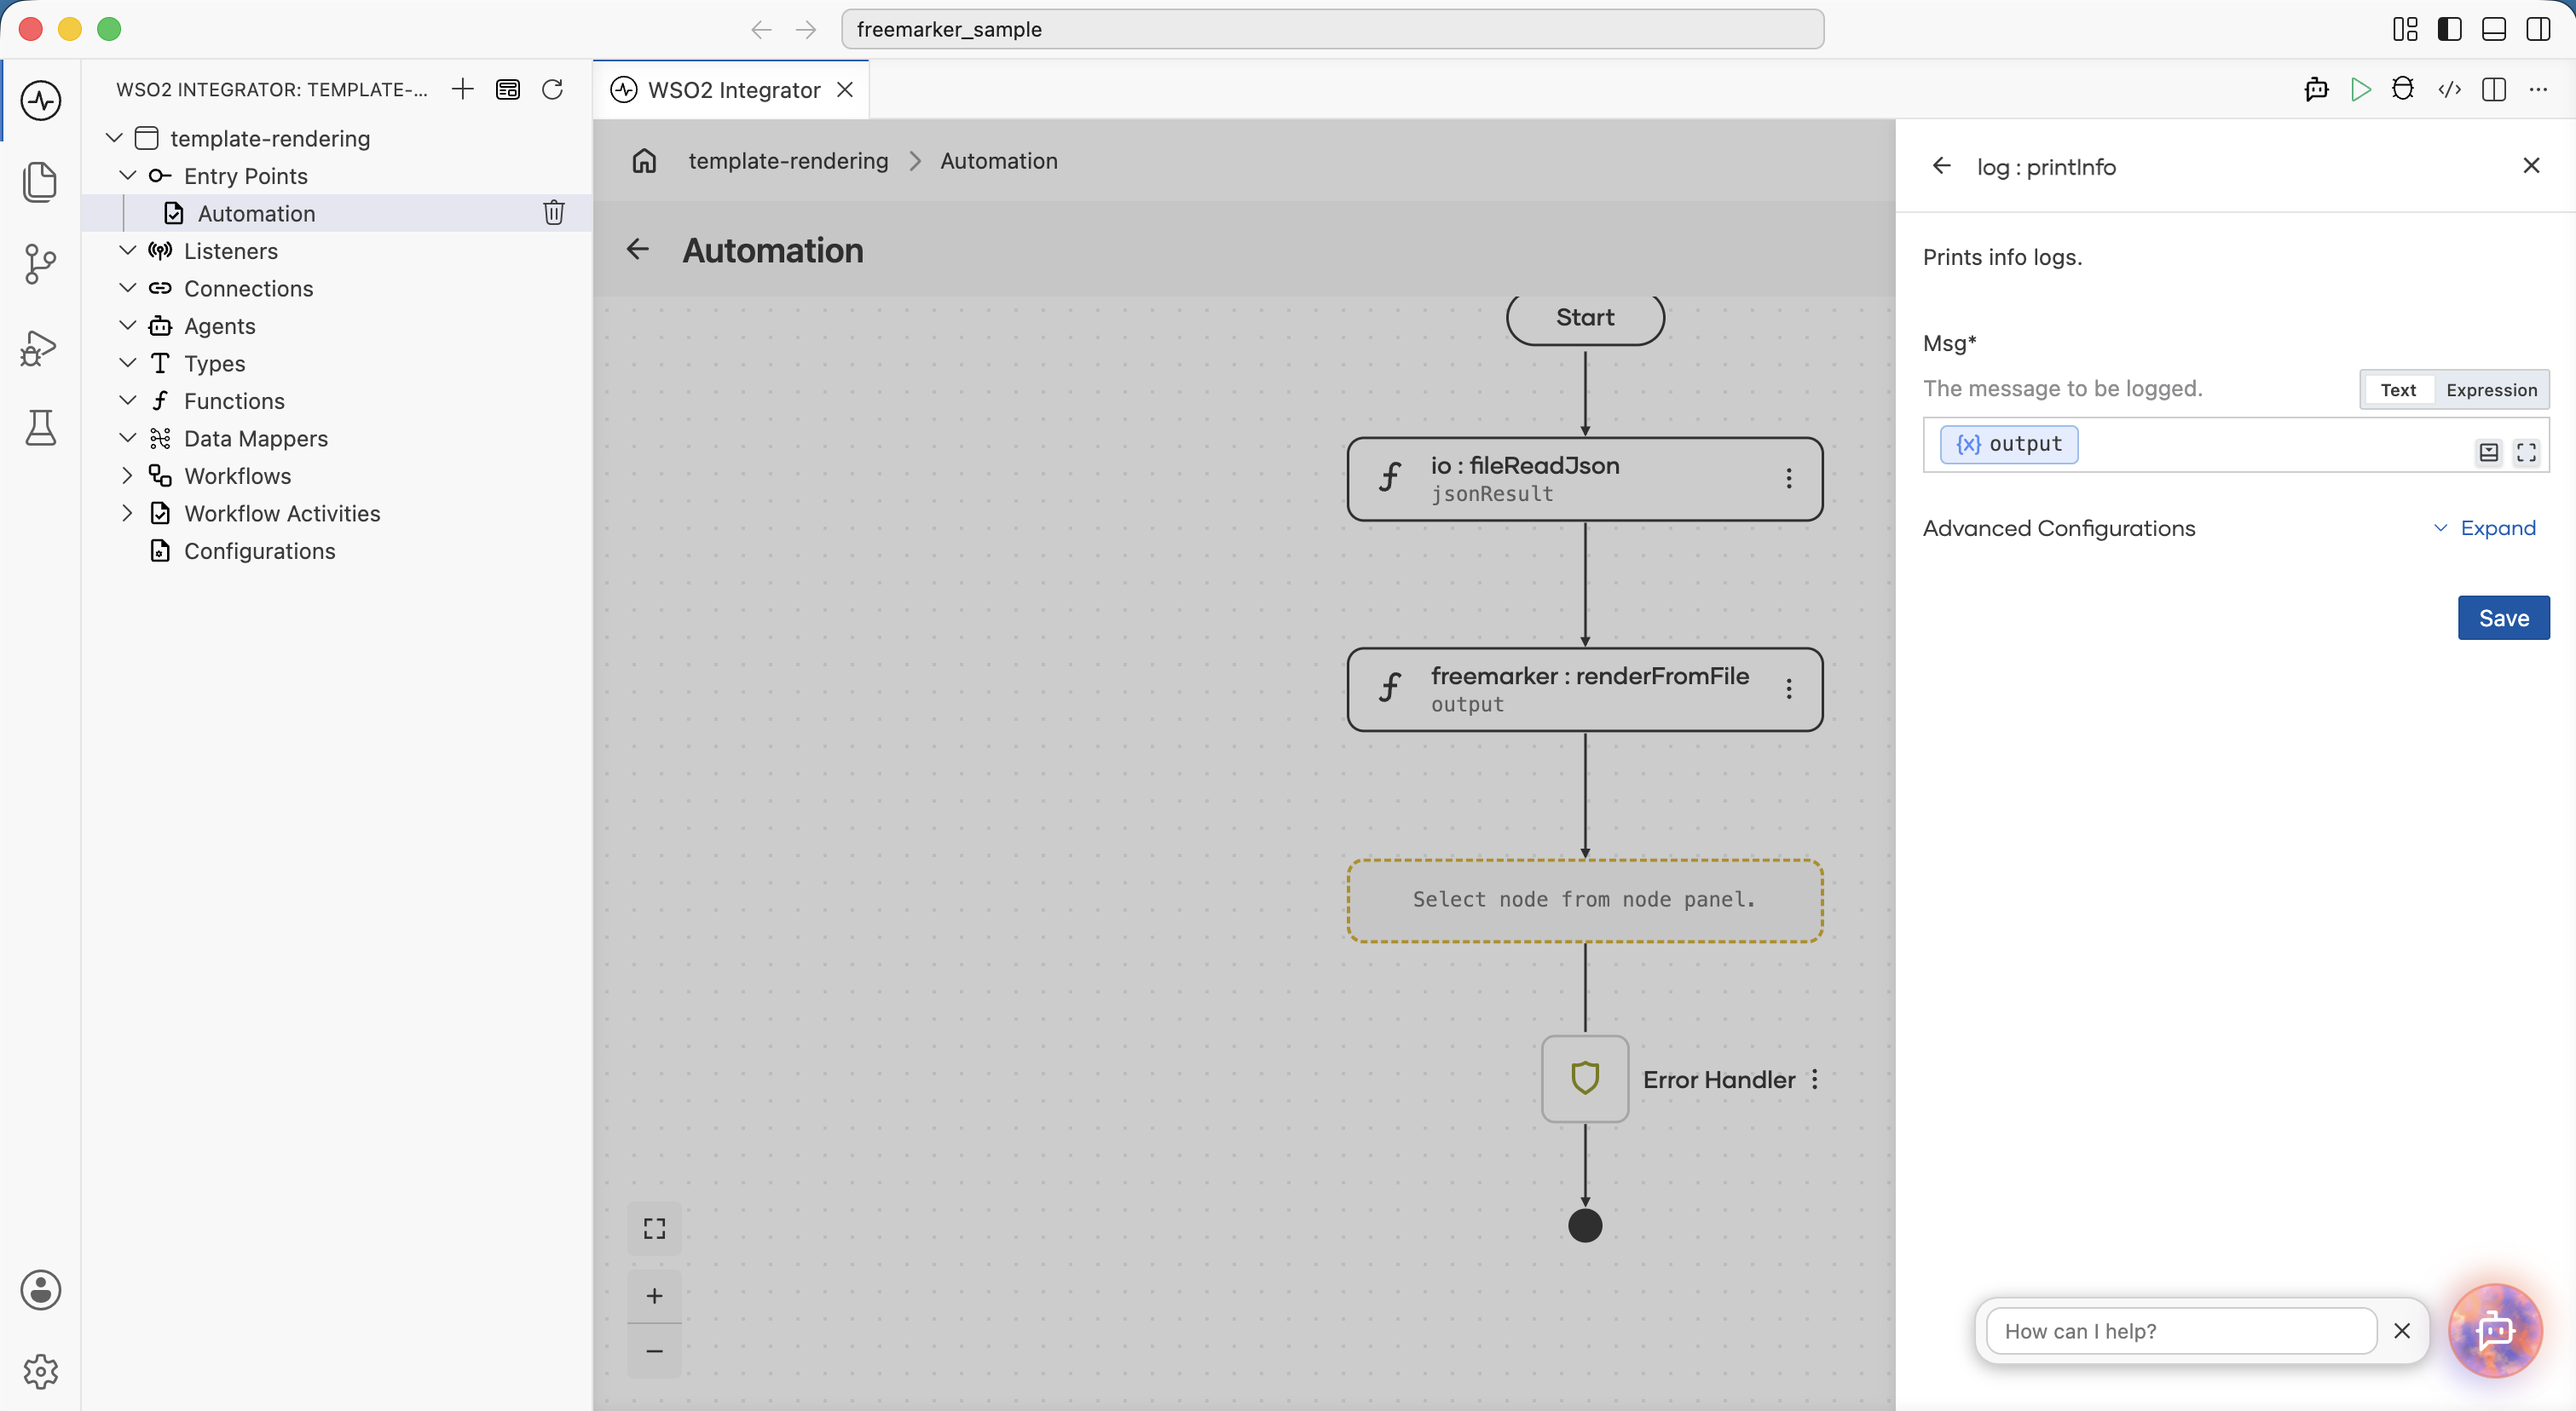
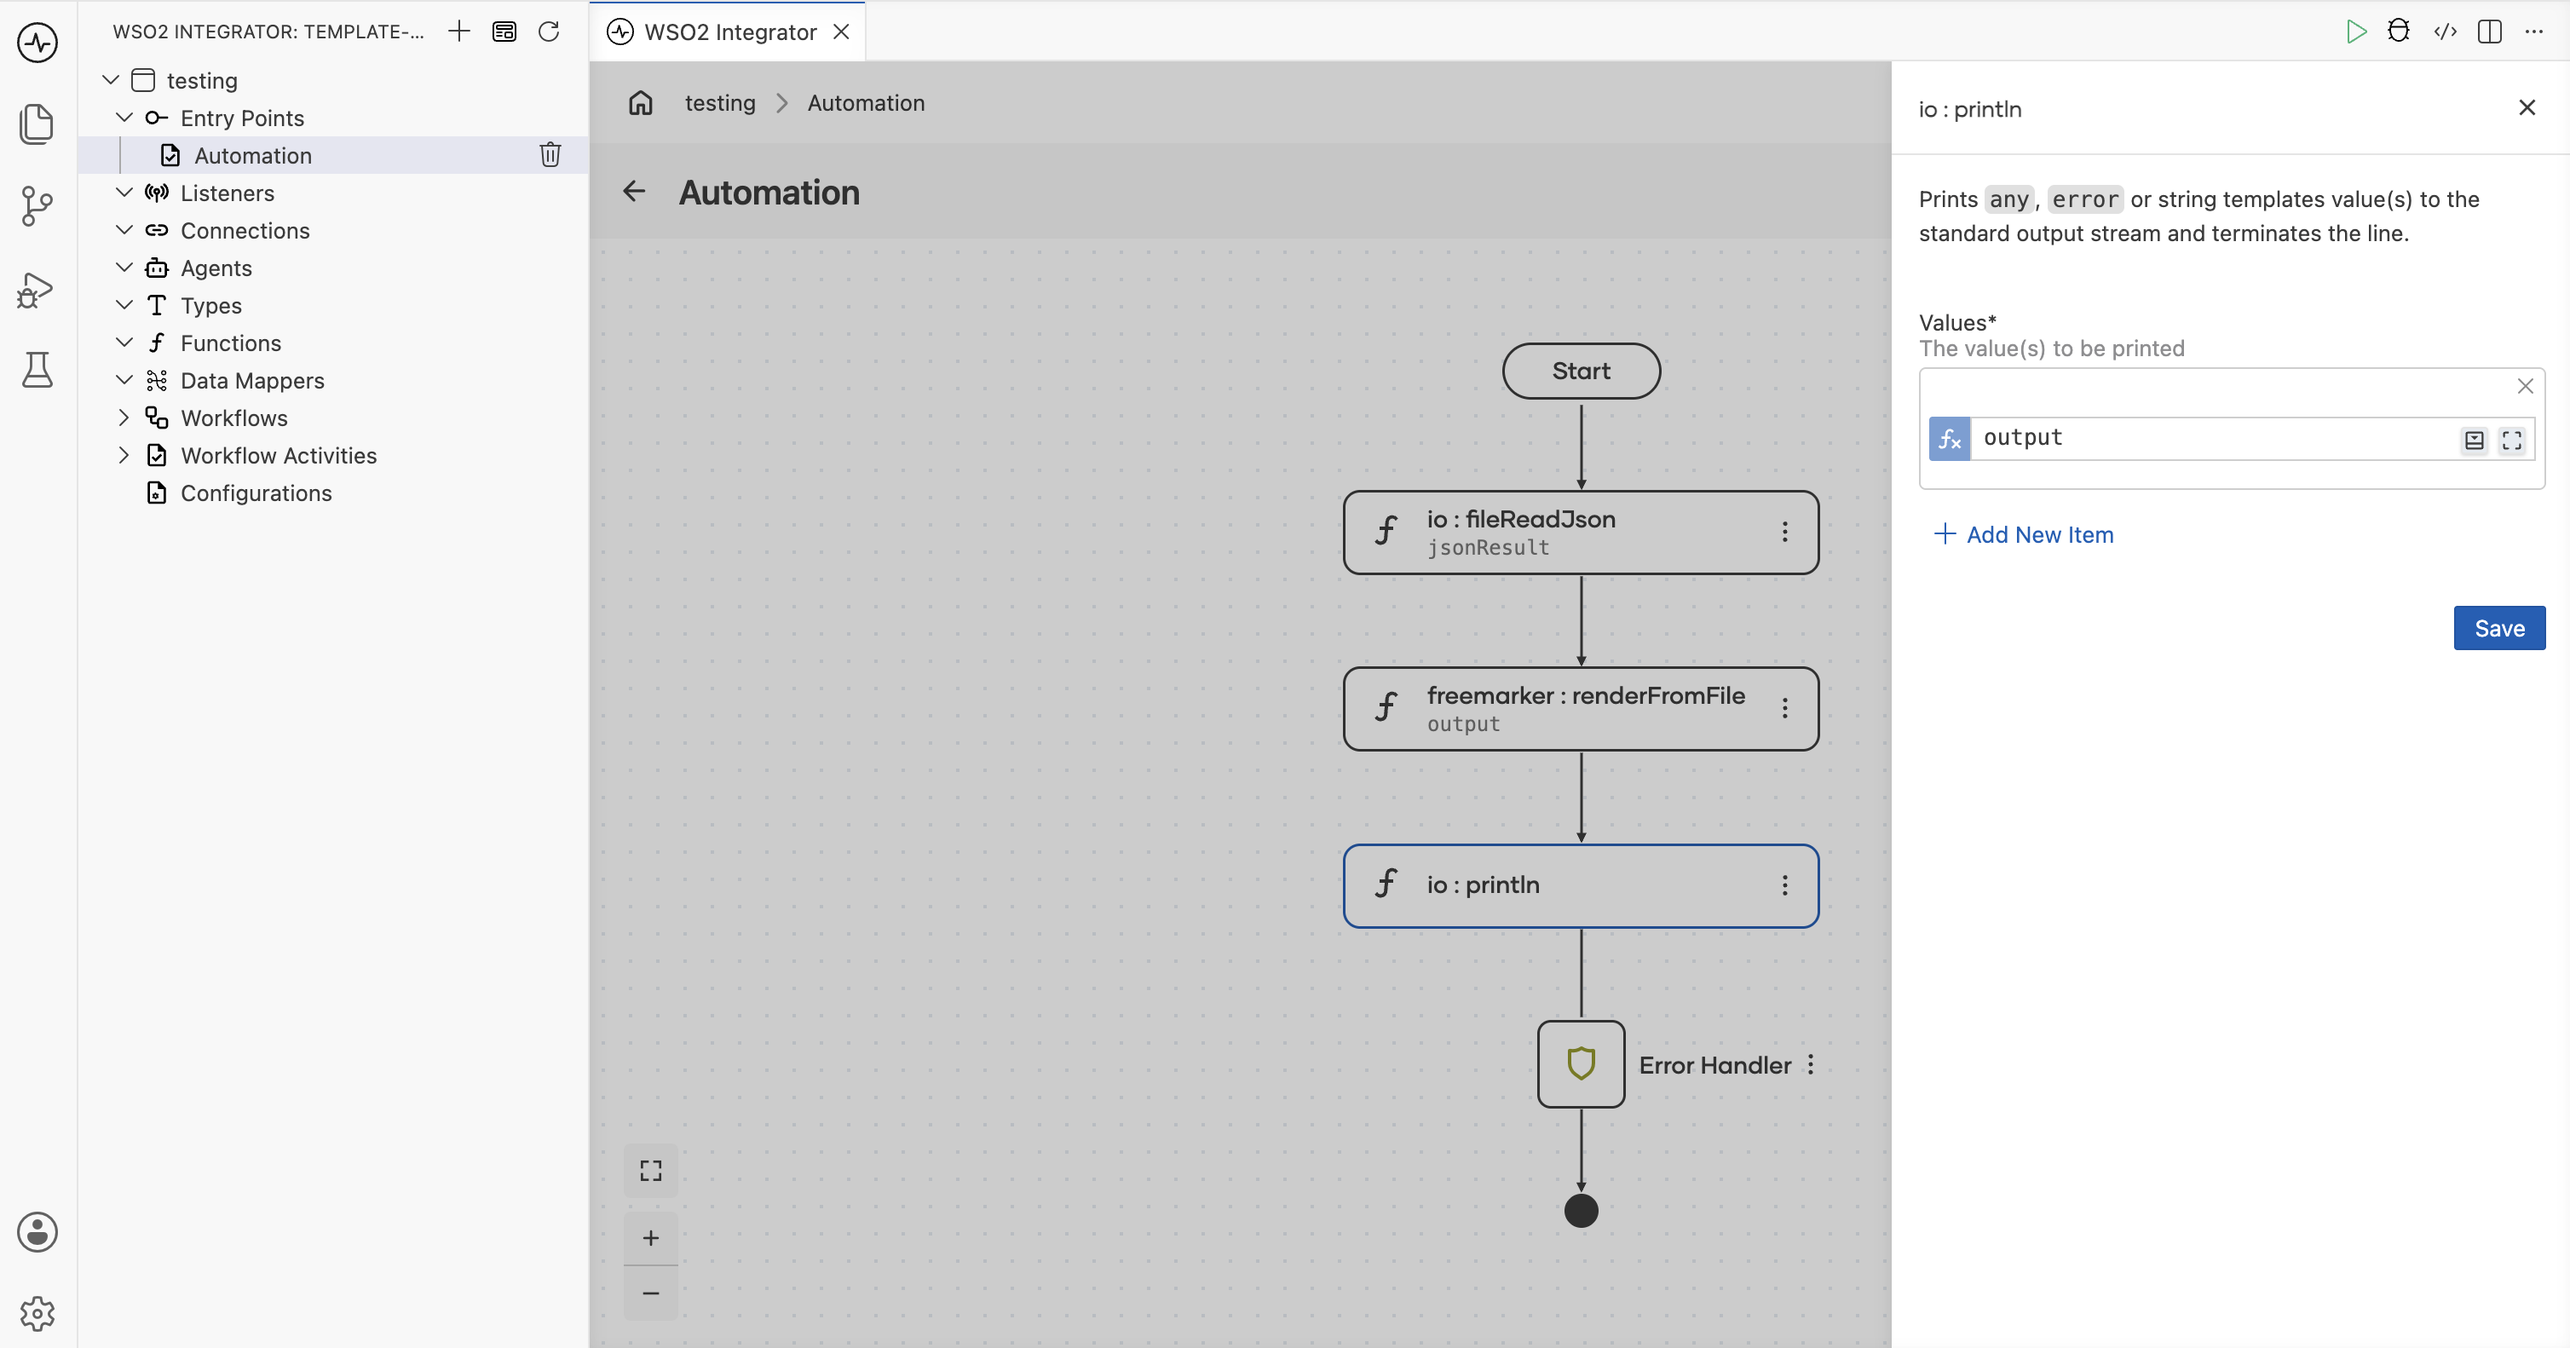
docs(freemarker): fix step numbering, clarify instructions, and add expected output

diff --git a/en/docs/develop-and-test/data-transformation/freemarker.md b/en/docs/develop-and-test/data-transformation/freemarker.md
@@ -60,7 +60,7 @@ You have ${count} new messages.
        }}
    />
 
-1. **Render the template**: Click **+** and select **Call Function**. Search for `renderFromFile` under **freemarker** and configure:
+2. **Render the template**: Click **+** and select **Call Function**. Search for `renderFromFile` under **freemarker** and configure:
    - **templatePath\***: `"templates/sample.ftl"`
    - **data\***: `check jsonResult.cloneWithType()`
    - **Result\***: `output`
@@ -74,7 +74,7 @@ You have ${count} new messages.
        }}
    />
 
-1. **Use the result**: Print the result to the console using `io:println()`, or pass it to a downstream step such as an HTTP response or log statement.
+3. **Use the result**: Click **+** and select **Call Function**. Search for the `println()` method and add `output` variables into the `Values` input.
 
    <ThemedImage
        alt="The println function call step printing the rendered output"
@@ -83,6 +83,17 @@ You have ${count} new messages.
            dark: useBaseUrl('/img/develop/transform/freemarker/freemarker-print-result.png'),
        }}
    />
+
+Output:
+
+```text
+Hello, Alice!
+
+You have 3 new messages.
+  - Bob: Meeting tomorrow
+  - Carol: Project update
+  - Dave: Lunch plans
+```
 
 </TabItem>
 <TabItem value="code" label="Ballerina Code">
@@ -149,7 +160,7 @@ Use `freemarker:render` when the template is short, lives in code, or is assembl
        }}
    />
 
-3. **Use the result**: Print the result to the console using `io:println()`, or pass it to a downstream step such as an HTTP response or log statement.
+3. **Use the result**: Click **+** and select **Call Function**. Search for the `println()` method and add `output` variables into the `Values` input.
 
    <ThemedImage
        alt="The println function call step printing the inline render result"
@@ -158,6 +169,12 @@ Use `freemarker:render` when the template is short, lives in code, or is assembl
            dark: useBaseUrl('/img/develop/transform/freemarker/freemarker-print-inline-result.png'),
        }}
    />
+
+Output:
+
+```text
+Hello, Alice! You have 5 new messages.
+```
 
 </TabItem>
 <TabItem value="code" label="Ballerina Code">
